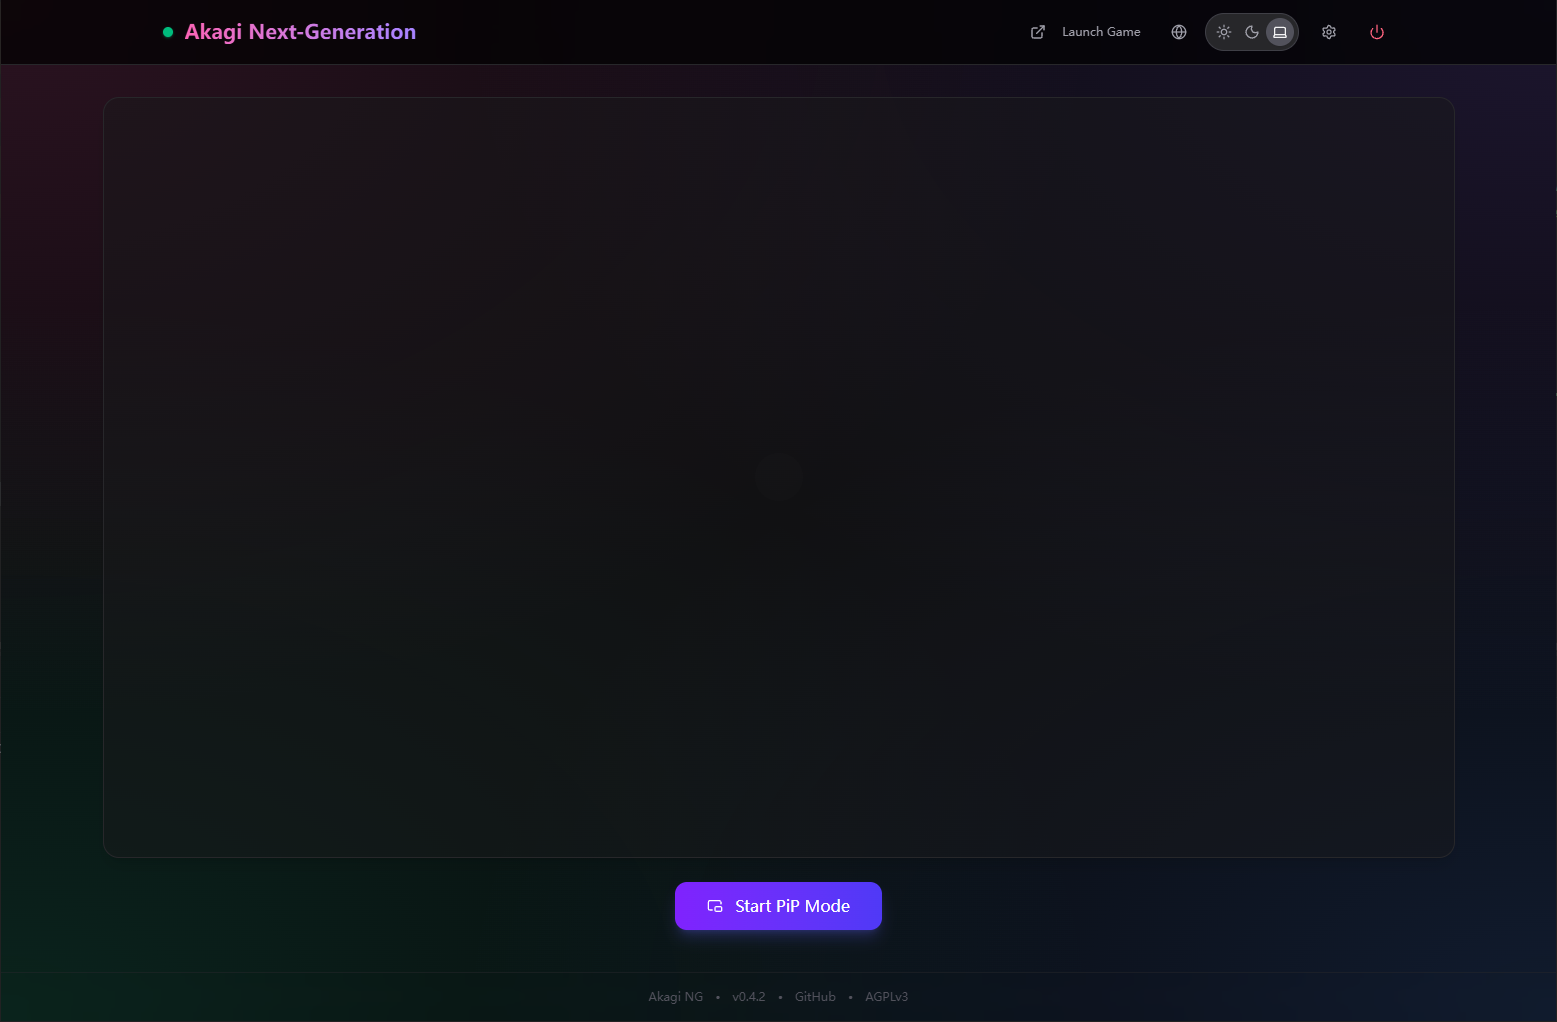
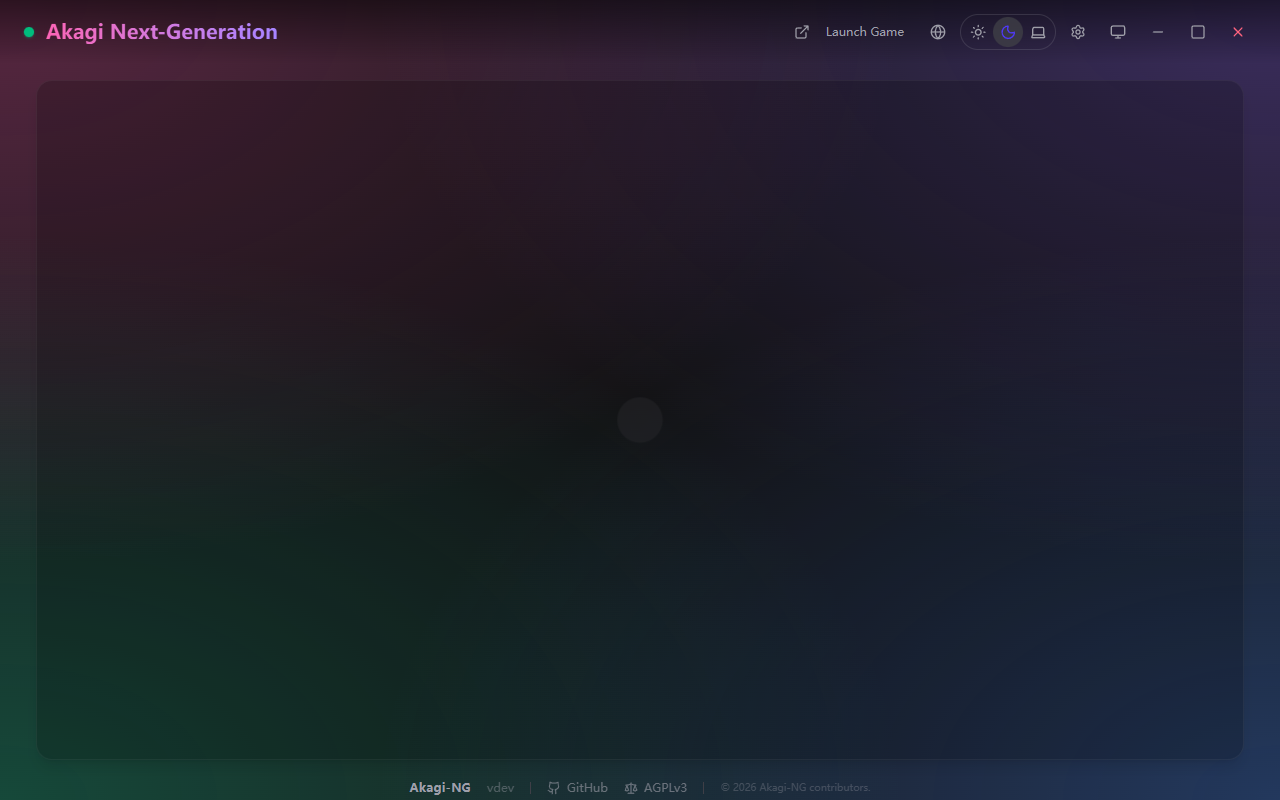
:memo: Revamp README and remove outdated screenshots

Changed region(s): [[0.0, 0.0, 1.0, 1.0]]

diff --git a/README.md b/README.md
@@ -28,7 +28,7 @@ It is an AI-powered assistant designed for Japanese Mahjong (Riichi Mahjong), ai
 
 Core Philosophy of Akagi-NG:
 
-- **Modern Architecture**: Rebuilt based on Python 3.12 and React/Vite
+- **Modern Architecture**: Rebuilt based on Electron-native architecture, Python 3.12 and React/Vite
 - **Decoupled Design**: Complete separation of core logic, user interface, configuration management, and AI models
 - **High-Performance Inference**: Integrated `libriichi` for blazing fast Mortal model inference capabilities
 - **Long-term Maintainability**: Optimized code structure for continuous iteration
@@ -65,9 +65,9 @@ Please fully understand and assume the relevant risks before use.
 - 🧠 **Core Functions**
   - Real-time hand analysis and AI discard recommendations
   - Riichi Lookahead - Intelligent recommendation for the best discard after reaching
-  - Complete Fuuro support (Chi/Pon/Ankan/Kakan/Daiminkan)
-  - Modern Web Overlay UI
-  - Multi-language support (Simplified Chinese / Traditional Chinese / Japanese / English)
+  - Comprehensive Fuuro Support - Clear action prompts for Chi, Pon, and all Kan variants
+  - Modern Glassmorphism HUD - Smooth and unobtrusive floating window experience
+  - Multi-language support - Simplified Chinese / Traditional Chinese / Japanese / English
 
 > [!NOTE]
 > **Riichi Lookahead** is a core feature in Akagi-NG, designed to solve the question: "When AI suggests Riichi, which tile should I discard?"
@@ -129,57 +129,62 @@ Please go to the [Releases](../../releases) page to download the latest version 
 ### 2. Deploy Resources
 
 Akagi-NG requires external model files and dependency libraries to run.
-Please ensure that the directory structure where `akagi-ng.exe` is located is complete (must contain the following folders):
+Please check the directory structure where `Akagi-NG.exe` is located.
 
 ```plain
-akagi-ng/
-  ├── akagi-ng.exe
-  ├── config/          # Configuration directory
-  ├── lib/             # libriichi local extension libraries (.pyd)
+Akagi-NG/
+  ├── Akagi-NG.exe     # Main Application (Electron Desktop)
+  ├── assets/          # Platform-specific UI assets
+  ├── bin/             # Backend core executable directory
+  ├── config/          # Configuration directory (settings.json)
+  ├── lib/             # libriichi local extension libraries (.pyd/.so)
   │     ├── libriichi.pyd
   │     └── libriichi3p.pyd
-  └── models/          # Mortal model weight files (.pth)
-        ├── mortal.pth
-        └── mortal3p.pth
+  ├── locales/         # Localization resource files
+  ├── logs/            # Runtime log directory
+  ├── models/          # AI model weight files (.pth)
+  │     ├── mortal.pth
+  │     └── mortal3p.pth
+  ├── resources/       # Electron core resources (app.asar)
+  ├── LICENSE.txt      # Open source license
+  ├── README.txt       # Quick start plain text guide
+  └── ...              # Other runtime files (.dll, .pak, etc.)
 ```
 
 ### 3. Run & Exit
 
-When running `akagi-ng.exe` for the first time, it starts in Browser (Playwright) mode by default, launching an dedicated browser window to enter Mahjong Soul and load the UI interface.
+When running `Akagi-NG.exe` for the first time, the integrated dashboard will appear. You can start the game directly from the dashboard to launch a dedicated browser window. Click the monitor icon in the top right of the dashboard to open the HUD overlay.
 
-When running Akagi-NG in Proxy mode, it will launch a system browser window to enter the UI interface, but will not automatically open the Mahjong Soul page.
+To exit the program, click the red power icon in the dashboard.
 
-To exit the program, directly close the `akagi-ng.exe` web page, or click the red power icon in the top right of the page.
-
-> [!CAUTION]
-> When running Akagi-NG in proxy mode, closing the browser window **WILL NOT** automatically terminate the background program.
+> [!TIP]
+> **HUD (Heads-Up Display)** is a new feature in Akagi-NG, providing a sleek, translucent overlay directly on your game window without manual window sticking.
 
 ### 4. Configuration
 
-All configurations for Akagi-NG are located in the `config/settings.json` file. You can click the gear icon in the top right of the page to enter the settings panel to modify them, or use a text editor to modify this file to adjust program behavior.
+All configurations for Akagi-NG are located in the `config/settings.json` file. You can click the gear icon in the top right of the dashboard to enter the settings panel to modify them, or use a text editor to modify this file to adjust program behavior.
 
-### 5. Browser (Playwright) Mode
+### 5. Desktop Mode (Recommended)
 
-This is the **default working mode** of Akagi-NG and also the most recommended mode.
+This is the **default working mode** of Akagi-NG.
 
-In this mode, Akagi-NG will launch an independent, clean Chromium browser window (based on Playwright technology).
+In this mode, Akagi-NG leverages its Electron core to manage a specialized Chromium instance for the game.
 
-- **Advantages**:
-  - **No Configuration Required**: No need to install certificates, no need to set system proxies, works out of the box.
-  - **Environment Isolation**: Completely isolated from your daily used browser, no interference.
-  - **Safe and Stable**: Receives data directly from the game server, high stability.
+- **Key Features**:
+  - **Zero Config**: No certificates or proxy settings needed.
+  - **Environment Isolation**: Completely isolated from your daily used browser.
+  - **Safe and Stable**: Receives data from the game server directly.
 
 - **Usage**:
-  1. Ensure `browser.enabled` is `true` in `config/settings.json` (default is true).
-  2. Double-click to run `akagi-ng.exe`.
-  3. The program will automatically open a browser window. Please log in to your Mahjong Soul account in this window and start the game.
+  1. Run `Akagi-NG.exe`.
+  2. Click "Launch Game" in the dashboard.
 
 ### 6. MITM Mode
 
 Akagi-NG supports intercepting game data via Man-in-the-Middle (MITM) attack. This allows you to play using any browser or on a mobile device (with proxy configured).
 
 1. **Enable Configuration**:
-   Add or modify the `mitm` field in `config/settings.json`:
+   Switch on "External Proxy" in the configuration panel or modify the `mitm` field in `config/settings.json`:
 
    ```json
    "mitm": {
@@ -194,7 +199,7 @@ Akagi-NG supports intercepting game data via Man-in-the-Middle (MITM) attack. Th
 
 3. **Install Certificate**:
 
-   > Note: If you use Scheme B (Clash splitting), you may not be able to open mitm.it. **Method 2** is recommended.
+   > Note: If you use Scheme B (Clash splitting), you may be unable to open `mitm.it`. **Method 2** is recommended.
    - **Method 1: Online Installation (Recommended for Scheme A Users)**
      - Start Akagi-NG.
      - Visit [http://mitm.it](http://mitm.it).
@@ -318,40 +323,32 @@ This scheme is suitable for **PC/Steam Client** players. Since the client cannot
 
 ```bash
 git clone https://github.com/Xe-Persistent/Akagi-NG.git
-cd Akagi-NG
 
-# Create and activate virtual environment
-python -m venv .venv
-.venv\Scripts\activate
-
-# Install development dependencies
+# Install python backend dependencies (Python 3.12+)
+cd ./akagi_backend
 pip install -e .
-python -m playwright install
 ```
 
-### 2. Compile Frontend Resources
+### 2. Debug Run
+
+To run in development mode:
 
 ```bash
-cd akagi_frontend
+cd ./electron
 npm install
+npm run dev
+```
+
+### 3. Build Toolchain
+
+We use a unified TypeScript-driven build chain located in the `electron` directory.
+
+```bash
+cd ./electron
 npm run build
 ```
 
-### 3. Debug Run
-
-```bash
-python -m akagi_ng
-```
-
-### 4. Package for Release
-
-Build standalone ZIP release package (containing executable):
-
-```bash
-python scripts/build_release.py
-```
-
-Build artifacts will be generated in the `dist/` directory.
+The build artifacts will be generated in `dist/release`.
 
 ---
 
